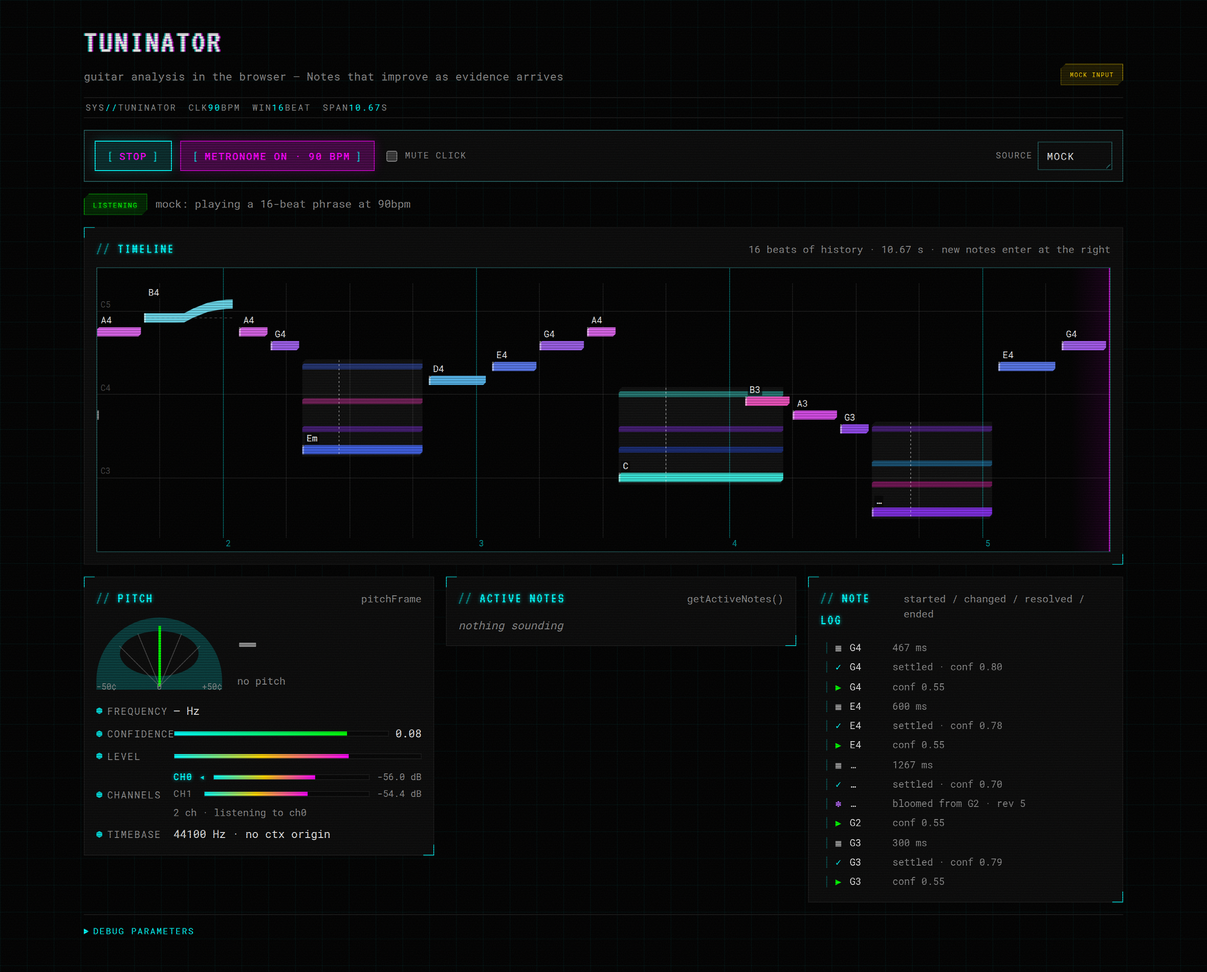
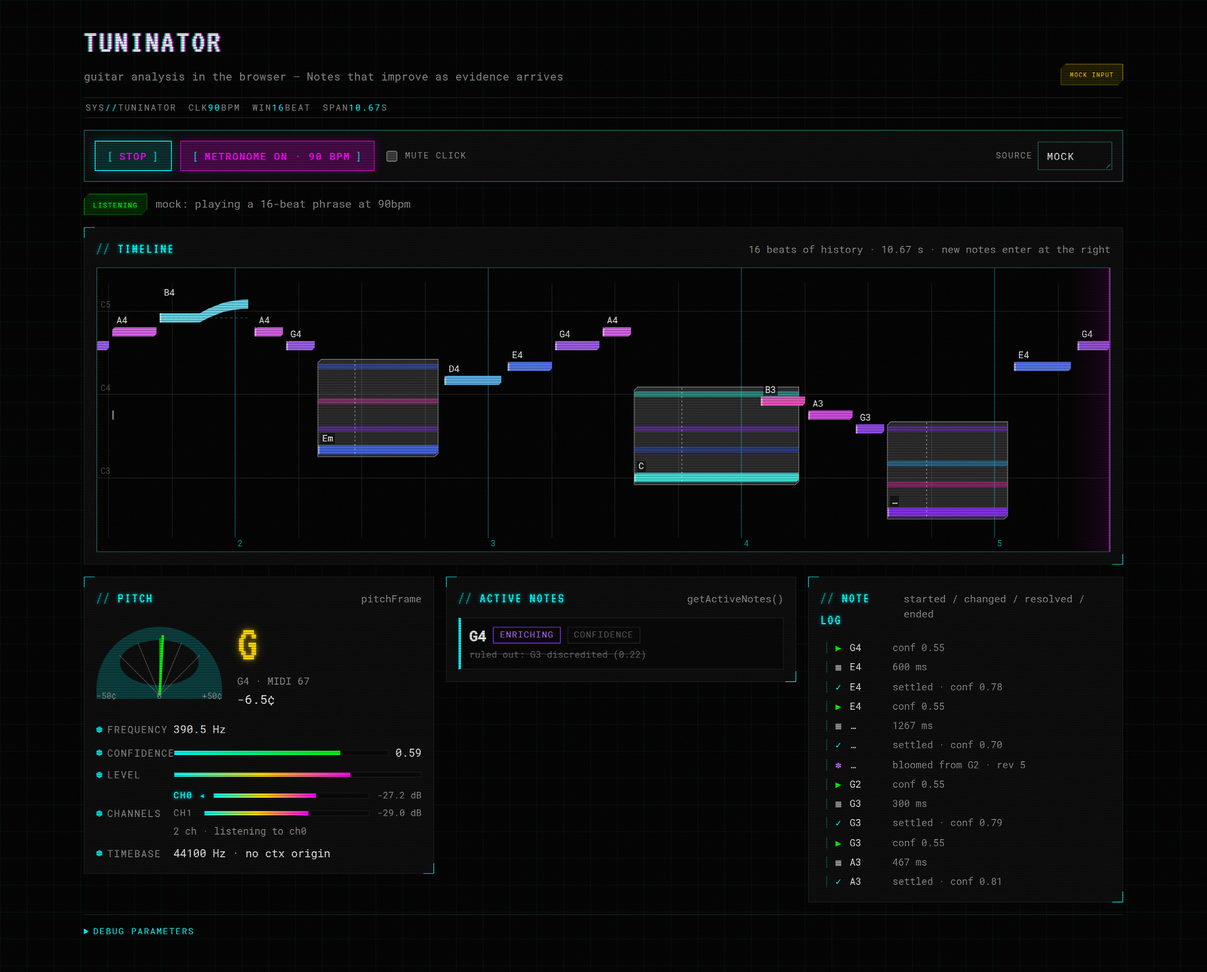
Raise the chord-group panel's contrast
The previous fill-only wash (highlight at 0.07 alpha) was too close to the
black ground to read as a grouping cue in practice.

Split the contrast between fill and stroke instead of just raising the fill:
a stroked edge is legible at much lower opacity than a flat tint needs to be,
since it is a sharp boundary rather than a gradual one. Fill raised to 0.2
alpha, plus a 1px stroke at 0.5 alpha along the same chamfered path.

Verified with npm run typecheck and npm run smoke:live; screenshot.png
regenerated. Non-background canvas coverage in the smoke suite's ink-ratio
check went from ~11% to ~21%, consistent with the panels now reading clearly
rather than disappearing into the ground.

Claude-Session: https://claude.ai/code/session_019jqcqSU96kZ1grbYe8v3nB

diff --git a/src/timeline.ts b/src/timeline.ts
@@ -492,18 +492,20 @@ export class Timeline {
   }
 
   /**
-   * A faint wash behind a chord's whole voicing.
+   * A background panel behind a chord's whole voicing.
    *
    * The chord-tone bars drawn just after this only share a time range —
    * nothing ties them to each other visually, so a four-note chord reads as
-   * four coincidentally aligned bars rather than one thing. A background a
-   * little lighter than the ground, spanning the note's full pitch cluster,
-   * is what turns that into a single grouped object at a glance.
+   * four coincidentally aligned bars rather than one thing. A panel spanning
+   * the note's full pitch cluster, drawn first so every bar layers on top of
+   * it, is what turns that into a single grouped object at a glance.
    *
-   * Luminance only (`theme.highlight`, the same token the attack cap and bend
-   * origin use) — a new hue here would compete with the pitch-class colour
-   * every bar already carries. Kept faint enough to stay a grouping cue, not
-   * a second glowing layer.
+   * A fill alone read as barely-there noise against pure black, so this
+   * carries most of its contrast in the outline: a stroked edge is legible at
+   * a much lower opacity than a flat tint needs to be, because it is a sharp
+   * boundary rather than a gradual one. Luminance only (`theme.highlight`,
+   * the same token the attack cap and bend origin use) for both — a new hue
+   * here would compete with the pitch-class colour every bar already carries.
    */
   #drawChordGroup(
     note: TrackedNote,
@@ -520,9 +522,12 @@ export class Timeline {
     const bottom = this.#yOf(extent.lo, height) + BAR_HEIGHT / 2 + 3;
 
     const ctx = this.#ctx;
-    ctx.fillStyle = withAlpha(this.#theme.highlight, 0.07 * alpha);
     cutRect(ctx, left, top, right - left, bottom - top, 4);
+    ctx.fillStyle = withAlpha(this.#theme.highlight, 0.2 * alpha);
     ctx.fill();
+    ctx.strokeStyle = withAlpha(this.#theme.highlight, 0.5 * alpha);
+    ctx.lineWidth = 1;
+    ctx.stroke();
   }
 
   /**
